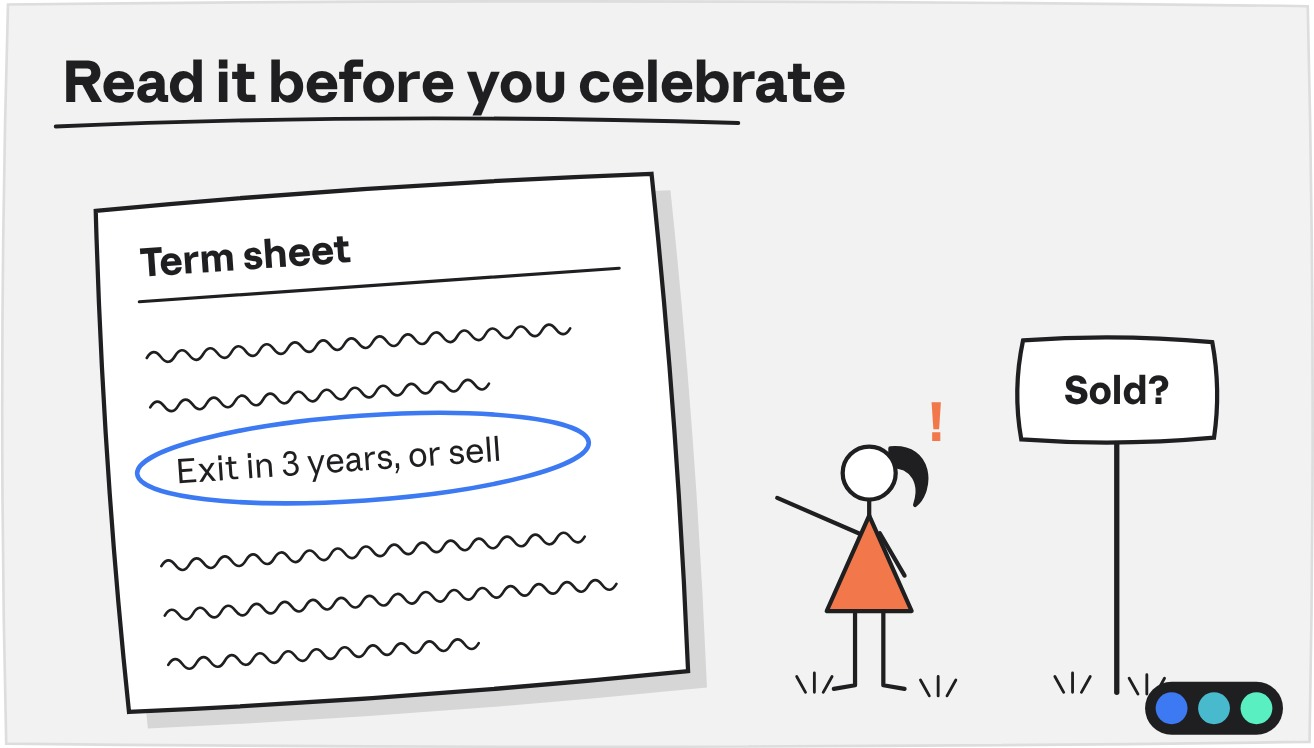
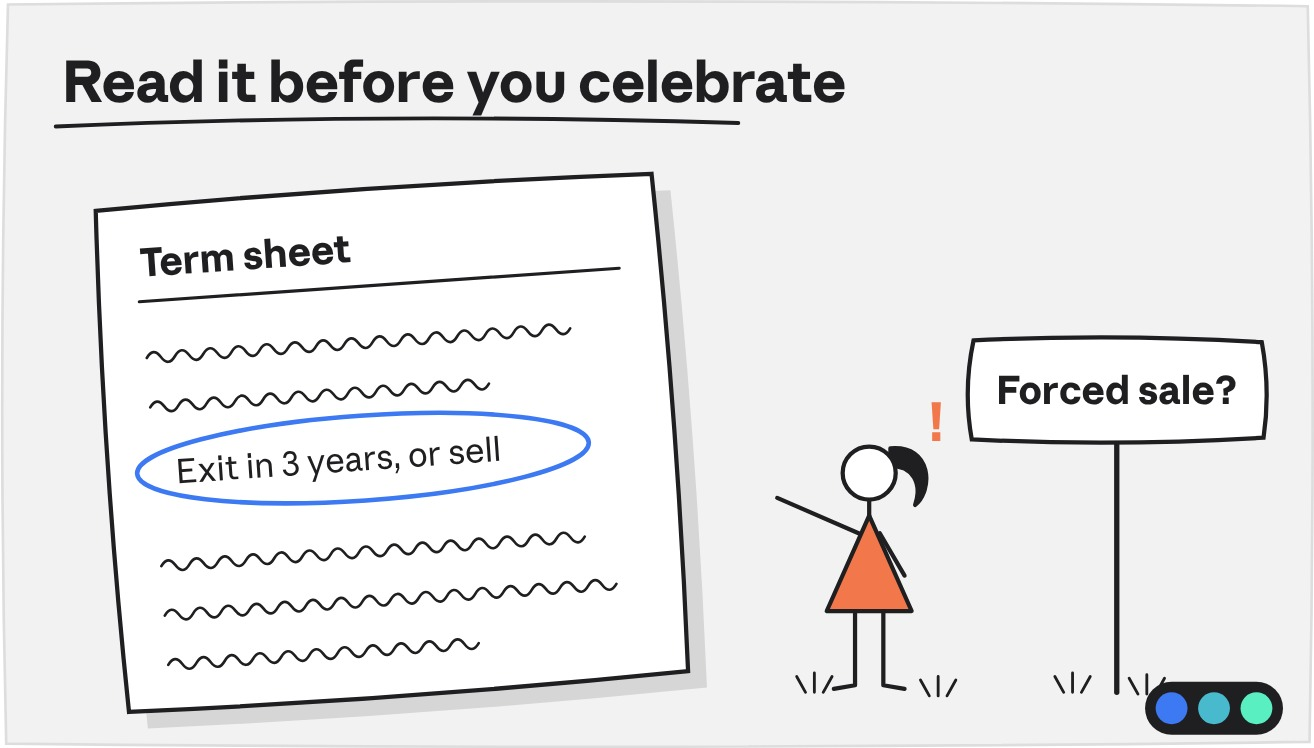
Right Money post: clearer forced-sale sign in term sheet illustration
Claude-Session: https://claude.ai/code/session_017AmYbWN1ddDjSmM2GXwAhq

Changed region(s): [[0.7177, 0.4305, 0.9673, 0.615]]

diff --git a/blog-right-investors-for-your-startup.html b/blog-right-investors-for-your-startup.html
@@ -163,7 +163,7 @@ height="0" width="0" style="display:none;visibility:hidden"></iframe></noscript>
       <p>The family office was not acting in bad faith. This was simply the template they used for their real estate deals. So we sat everyone down and talked it through.</p>
       <p>We agreed on a five-year exit window, a forced sale only after year seven and above a minimum price, and no personal buyback at all. The valuation dipped slightly. The founders kept their company.</p>
       <figure class="post-figure">
-        <img src="Assets/blog/right-investors-for-your-startup-term-sheet.jpg" alt="Sketch of a founder pointing at a term sheet with the line exit in 3 years, or sell circled, next to a sign reading sold?" width="1314" height="748" loading="lazy">
+        <img src="Assets/blog/right-investors-for-your-startup-term-sheet.jpg" alt="Sketch of a founder pointing at a term sheet with the line exit in 3 years, or sell circled, next to a sign reading forced sale?" width="1314" height="748" loading="lazy">
       </figure>
       <p><strong>The lesson:</strong> a high valuation with one-sided terms is often worth less than a fair valuation with fair terms.</p>
 
